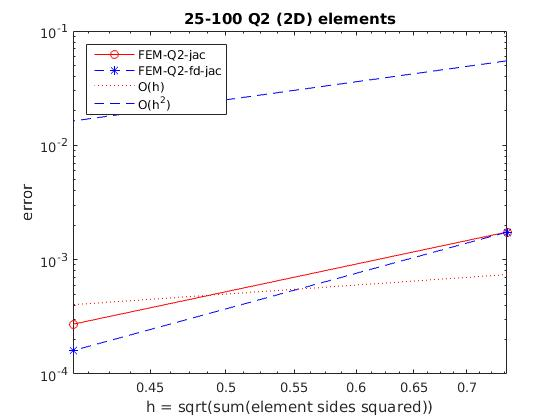
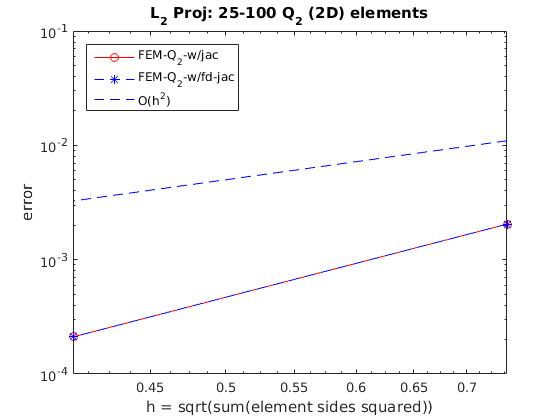
L2-Projection complete!

diff --git a/L2_jac_fd.m b/L2_jac_fd.m
@@ -9,21 +9,18 @@ j=1;
 err=zeros(1,12);
 fd_err=zeros(1,12);
 h = zeros(1,12);
-for i=6:6:6
+for i=6:5:11
     % User given parameters to generate mesh with quadliteral elements
     nx=i;
     ny=i;
-    nz=i+2; 
+    nz=i; 
     x0 = -pi/2;
     y0 = -pi/2;
     z0 = -pi/2;
     x1 = pi/2;
     y1 = pi/2;
     z1 = pi/2;
-    elm_type = 'Q1';
-    
-    nx=2;
-    ny=2;
+    elm_type = 'Q2';
     
   
     % generate 2D mesh based on element type
@@ -55,20 +52,21 @@ for i=6:6:6
         
         [global_res, jac] = eval_res(u, conn,vtx_coords, elm_type);
         [fdglobal_res, fdjac] = fdeval_res(fdu, conn,vtx_coords, elm_type);
-        %sgr = sparse(global_res);
+        
         
         gl_res_diff =  fdglobal_res - global_res;       
         jac_diff = fdjac - jac;
                 
         global_res_norm = norm(global_res);
-%         if(global_res_norm < 1.0e-4)
-%             break;
-%         end
+        if(global_res_norm < 1.0e-9)
+            fdglobal_res_norm = norm(fdglobal_res);
+            break;
+        end
         
         fdglobal_res_norm = norm(fdglobal_res);
-%         if(fdglobal_res_norm < 1.0e-4)
-%             break;
-%         end  
+        if(fdglobal_res_norm < 1.0e-9)
+            break;
+        end  
          norms(1,norm_iter)= global_res_norm;
          norms(2,norm_iter)= fdglobal_res_norm;
 
@@ -76,10 +74,10 @@ for i=6:6:6
         fun = @(u)eval_res(u, conn, vtx_coords, elm_type);
         fdfun = @(fdu)fdeval_res(fdu, conn, vtx_coords, elm_type);
         
-        %options = optimoptions(@fsolve,'Algorithm','trust-region-reflective','Jacobian','on');
-        options = optimset('Jacobian','on');
+        options = optimoptions(@fsolve,'Algorithm','trust-region-reflective','Jacobian','on');
+        %options = optimset('Jacobian','on');
         sol = fsolve(fun, global_res, options);
-        %sol = fsolve(fun, sgr, options);
+        
         fdoptions = optimset('Jacobian','on');
         fdsol =fsolve(fdfun, fdglobal_res, fdoptions);
         u=sol;
@@ -113,8 +111,8 @@ for i=6:6:6
     
 end
 figure
-loglog(h,err,'r-o',h,fd_err,'b--*', h,0.001*h,'r:',h, 0.1*(h.^2),'b--');
+loglog(h,err,'r-o',h,fd_err,'b--*',h, 0.02*(h.^2),'b--');
 xlabel('h = sqrt(sum(element sides squared))')
 ylabel('error')
-legend('FEM-Q2-jac','FEM-Q2-fd-jac','O(h)','O(h^2)','Location','northwest')
-title('25-100 Q2 (2D) elements')
+legend('FEM-Q_2-w/jac','FEM-Q_2-w/fd-jac','O(h^2)','Location','northwest')
+title('L_2 Proj: 25-100 Q_2 (2D) elements')

diff --git a/L2_Q1_vs_Q2.m b/L2_Q1_vs_Q2.m
@@ -8,7 +8,7 @@ format short
 j=1;
 errQ2=zeros(1,12);
 hQ2 = zeros(1,12);
-for i=6:5:11
+for i=6:5:26
     % User given parameters to generate mesh with quadliteral elements
     nx=i;
     ny=i;
@@ -49,9 +49,9 @@ for i=6:5:11
         [global_res, jac] = eval_res(u, conn,vtx_coords, elm_type);
                 
         global_res_norm = norm(global_res);
-%         if(global_res_norm < 1.0e-4)
-%             break;
-%         end
+        if(global_res_norm < 1.0e-9)
+            break;
+        end
         
          norms(1,norm_iter)= global_res_norm;
                  
@@ -91,7 +91,7 @@ end
 jj=1;
 errQ1=zeros(1,12);
 hQ1 = zeros(1,12);
-for i=11:10:21
+for i=11:10:51
     % User given parameters to generate mesh with quadliteral elements
     nx=i;
     ny=i;
@@ -131,9 +131,9 @@ for i=11:10:21
         [global_res, jac] = eval_res(u, conn,vtx_coords, elm_type);
                 
         global_res_norm = norm(global_res);
-%         if(global_res_norm < 1.0e-4)
-%             break;
-%         end
+        if(global_res_norm < 1.0e-9)
+            break;
+        end
         
          norms(1,norm_iter)= global_res_norm;
                  
@@ -169,8 +169,8 @@ for i=11:10:21
     
 end
 figure
-loglog(hQ2,errQ2,'r-o',hQ1,errQ1,'b--*', hQ1,0.001*hQ1,'b:',hQ2, 0.1*(hQ2.^2),'r--');
+loglog(hQ2,errQ2,'r-o',hQ2,0.001*(hQ2.^3),'r--'  ,hQ1,errQ1,'b--*', hQ1,0.02*(hQ1.^2),'b:');
 xlabel('h = sqrt(sum(element sides squared))')
 ylabel('error')
-legend('FEM-Q2','FEM-Q1','O(h)','O(h^2)','Location','northwest')
-title('25-100 Q2 VS 100-400 Q1 (2D) elements')
+legend('FEM-Q_2','O(h^3)', 'FEM-Q_1','O(h^2)','Location','northwest')
+title('L_2-proj: 25-625 Q_2 VS 100-2500 Q_1 (2D) elements')

diff --git a/runL2projection.m b/runL2projection.m
@@ -8,9 +8,9 @@ format short
 j=1;
 err=zeros(1,12);
 h = zeros(1,12);
-for i=3:3:3  %66
+for i=6:5:66  %66
     % User given parameters to generate mesh with quadliteral elements
-    nx=i;
+    nx=i+1;
     ny=i;
     nz=i+2; 
     x0 = -pi/2;
@@ -42,12 +42,12 @@ for i=3:3:3  %66
    
     iter=1;
     norm_iter=1;
-    while((global_res_norm > 1.0e-9 || fdglobal_res_norm > 1.0e-9) && iter <5 )
+    while((global_res_norm > 1.0e-9 || fdglobal_res_norm > 1.0e-9) && iter <3 )
         
         [global_res, jac] = eval_res(u, conn,vtx_coords, elm_type);
                 
         global_res_norm = norm(global_res);
-        if(global_res_norm < 1.0e-7)
+        if(global_res_norm < 1.0e-9)
             break;
         end
 
@@ -84,8 +84,17 @@ for i=3:3:3  %66
     
 end
 figure
-loglog(h,err,'r-o', h,0.001*h,'r:',h, 0.1*(h.^2),'b--');
+% Q1
+% loglog(h,err,'r-o', h,0.001*h,'r:',h, 0.01*(h.^2),'b--');
+% legend('FEM-Q1','O(h)','O(h^2)','Location','northwest')
+% title('L2-proj: 25-4225 Q1 (2D) elements')
+
+% Q2
+loglog(h,err,'r-o', h,0.001*(h.^3),'r:',h, 0.1*(h.^2),'b--');
+legend('FEM-Q2','O(h^3)','O(h^2)','Location','northwest')
+title('L2-proj: 25-4225 Q1 (2D) elements')
+
 xlabel('h = sqrt(sum(element sides squared))')
 ylabel('error')
-legend('FEM-Q2','O(h)','O(h^2)','Location','northwest')
-title('25-4225 Q2 (2D) elements')
+
+

diff --git a/fdeval_res.m b/fdeval_res.m
@@ -69,12 +69,12 @@ function [global_res , fdjac] = fdeval_res(u ,conn, vtx_coords, elm_type)
          
          De_res = 0;
          for j=1:size(Die,2)
-             De_res = De_res +(Die{j}'* We.*f1{j});
+             De_res = De_res +(Die{j}'* (We.*f1{j}));
          end
          
                
          % element residual evaluation
-         res_e = Be'*We.*f0 + De_res;
+         res_e = Be'*(We.*f0) + De_res;
         
          
          % global residual assembly

diff --git a/eval_res.m b/eval_res.m
@@ -70,12 +70,12 @@ function [global_res , jac] = eval_res(u ,conn, vtx_coords, elm_type)
          
          De_res = 0;
          for j=1:size(Die,2)
-             De_res = De_res +(Die{j}'* We.*f1{j});
+             De_res = De_res +(Die{j}'* (We.*f1{j}));
          end
          
                
          % element residual evaluation
-         res_e = Be'*We.*f0 + De_res;
+         res_e = Be'*(We.*f0) + De_res;
         
          
          % global residual assembly

diff --git a/jacF.m b/jacF.m
@@ -1,9 +1,11 @@
 function J=jacF(func,x)
-% computes the Jacobian of a function
+% JACF computes the Jacobian of a function using Finite differences
+    
     n=length(x);
+    % Allocate space for teh Jacobian
     J =zeros(n,n);
     fx=feval(func,x);
-    eps=1.e-8;  % could be made better
+    eps=1.e-8; 
     xperturb=x;
     for i=1:n
         xperturb(i)=xperturb(i)+eps;

diff --git a/README.md b/README.md
@@ -1,4 +1,4 @@
 For L2-Projection problem run:
 runL2projection.m
-fsolve?
+
 
